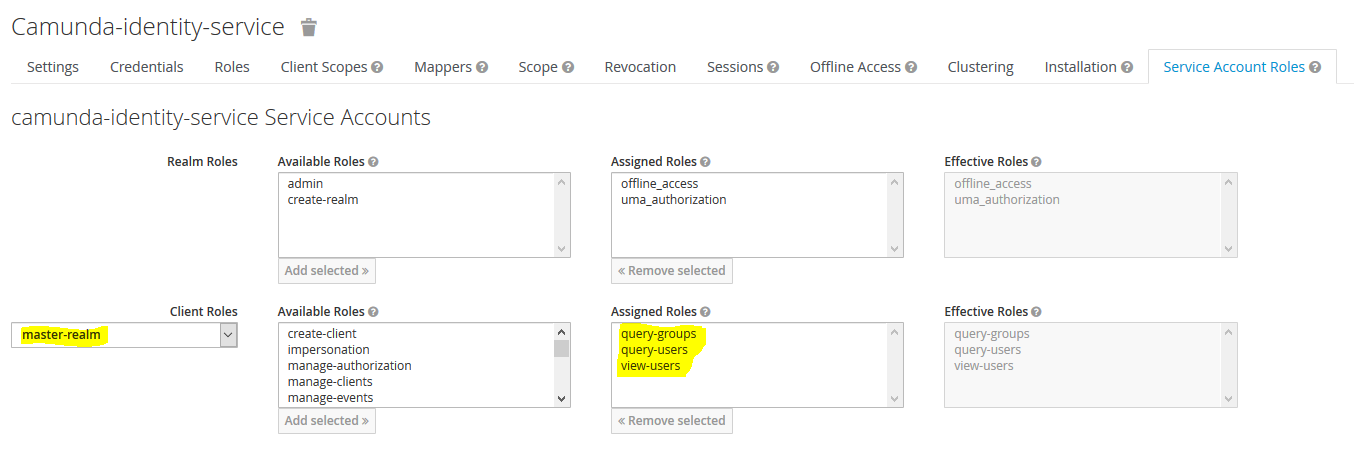
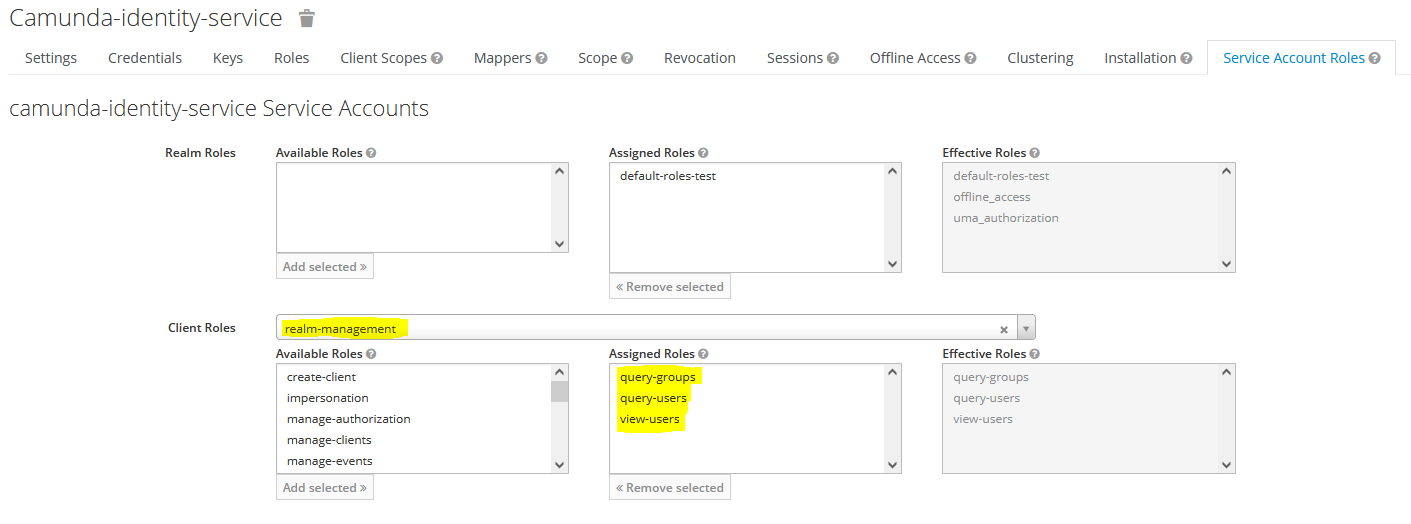
docs: improved README

diff --git a/README.md b/README.md
@@ -82,7 +82,7 @@ Known limitations:
 3. In order to use refresh tokens set the "Use Refresh Tokens For Client Credentials Grant" option within the "OpenID Connect Compatibility Modes" section (available in newer Keycloak versions):
 
 	![IdentityServiceOptions](doc/identity-service_options.png "Identity Service Options")
-4.	Add the roles `query-groups, query-users, view-users` to the service account client roles of your realm (`master-realm` or `realm-management`, depending on whether you are using master or a separate realm):
+4.	Add the roles `query-groups, query-users, view-users` to the service account client roles of your realm (choose `realm-management` or `master-realm`, depending on whether you are using a separate realm or master):
 	![IdentityServiceRoles](doc/identity-service_roles.png "Identity Service Roles")
 5.  Your client credentials can be found here:
 	![IdentityServiceCredentials](doc/identity-service_credentials.png "Identity Service Credentials")
